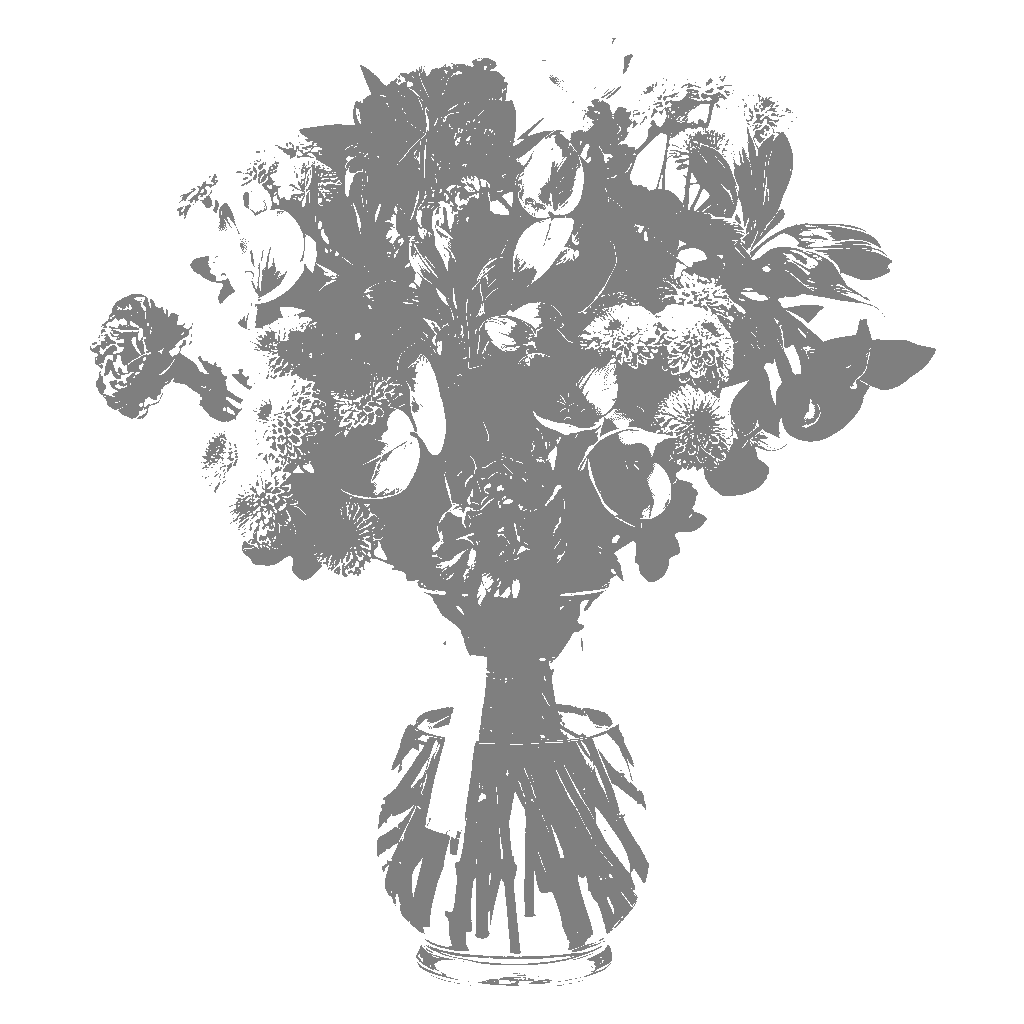
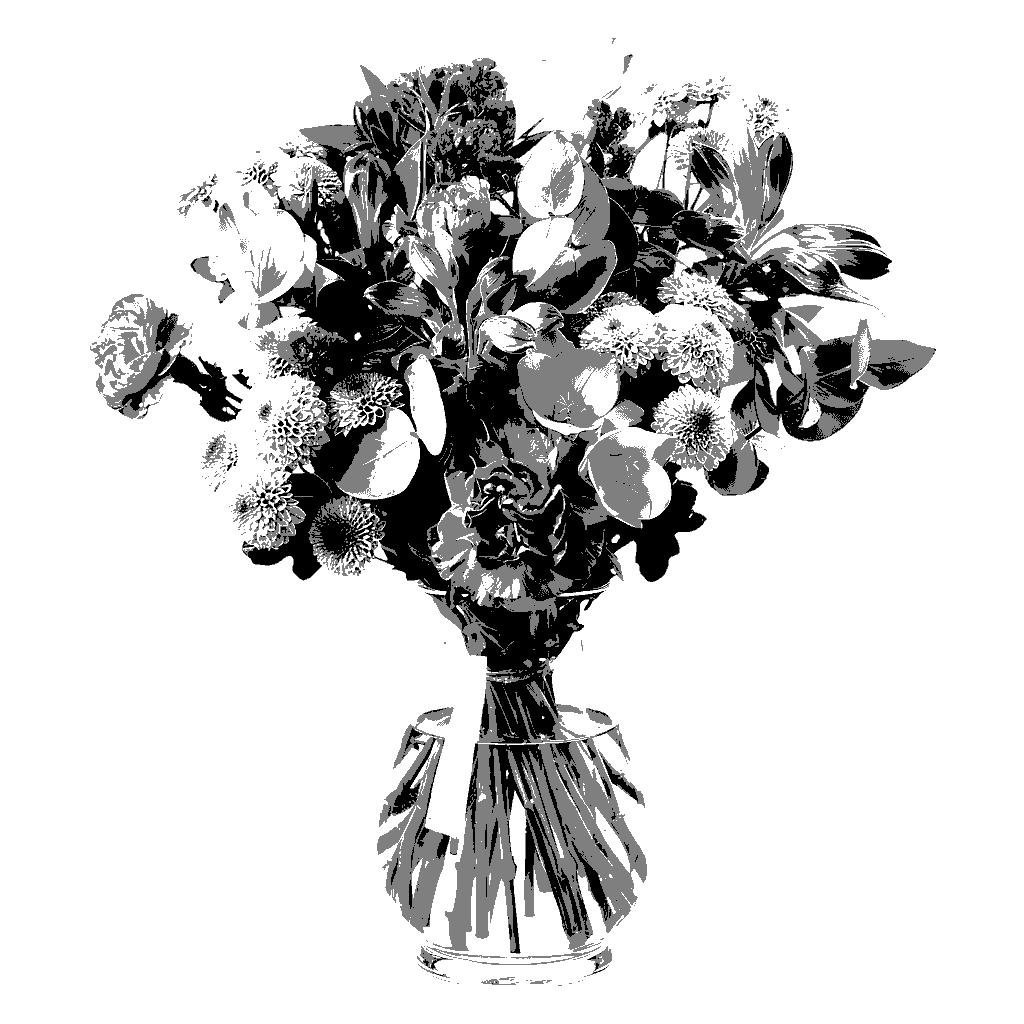
fixed iterative Otsu approach to better calculate the thresholds and get proper 3 values

diff --git a/histogram binarisation/otsu_iterative.py b/histogram binarisation/otsu_iterative.py
@@ -3,68 +3,59 @@ import numpy as np
 
 img = cv2.imread("resources/kwiatki.png", cv2.IMREAD_GRAYSCALE)
 
-def otsu_threshold(hist):
-    # handle histogram of any length (e.g. when using slices)
-    n = hist.size
-    total = hist.sum()
-    sumB = 0.0
-    wB = 0.0
-    maximum = -1.0
-    sum1 = np.dot(np.arange(n), hist)
+def threshold_otsu(image):
+    hist, _ = np.histogram(image.flatten(), bins=256, range=[0,256])
+    total = image.size
+    current_max, threshold = 0, 0
+    sum_total, sum_foreground = 0, 0
+    weight_background, weight_foreground = 0, 0
 
-    threshold = 0
-    for t in range(n):
-        wB += hist[t]
-        if wB == 0:
+    for i in range(256):
+        sum_total += i * hist[i]
+
+    for i in range(256):
+        weight_background += hist[i]
+        if weight_background == 0:
             continue
-        wF = total - wB
-        if wF == 0:
+        weight_foreground = total - weight_background
+        if weight_foreground == 0:
             break
-        sumB += t * hist[t]
-        mB = sumB / wB
-        mF = (sum1 - sumB) / wF
-        between = wB * wF * (mB - mF) ** 2
-        if between > maximum:
-            maximum = between
-            threshold = t
+        sum_foreground += i * hist[i]
+        mean_background = sum_foreground / weight_background
+        mean_foreground = (sum_total - sum_foreground) / weight_foreground
+        between_class_variance = weight_background * weight_foreground * (mean_background - mean_foreground) ** 2
+        if between_class_variance > current_max:
+            current_max = between_class_variance
+            threshold = i
     return threshold
 
-def iterative_three_class_threshold(img, delta_limit=2, max_iters=256):
-    hist = cv2.calcHist([img],[0],None,[256],[0,256]).ravel()
-
-    # initial thresholds
-    T1_old, T2_old = 60, 180
-
-    it = 0
+def iterative_otsu(img, delta = 2):
+    T_prev = threshold_otsu(img)
     while True:
-        it += 1
-        # compute thresholds for each class using Otsu
-        T1_new = otsu_threshold(hist[:T1_old+1])
-        T2_new = otsu_threshold(hist[T1_old+1:]) + T1_old + 1
-
-        if abs(T1_new - T1_old) < delta_limit and abs(T2_new - T2_old) < delta_limit:
+        lower = img[img <= T_prev]
+        upper = img[img > T_prev]
+        if len(lower) == 0 or len(upper) == 0:
             break
-
-        if it >= max_iters:
-            # stop to avoid infinite loop
-            print(f"Warning: reached max_iters={max_iters}, returning current thresholds")
+        mu0, mu1 = np.mean(lower), np.mean(upper)
+        subset = img[(img > mu0) & (img <= mu1)]
+        if subset.size == 0:
             break
+        T_new = threshold_otsu(subset)
+        if abs(T_new - T_prev) < delta:
+            break
+        T_prev = T_new
+    return T_prev
 
-        T1_old, T2_old = T1_new, T2_new
+T_iterative = iterative_otsu(img)
 
-    return T1_new, T2_new
-
-T1, T2 = iterative_three_class_threshold(img)
-
-# trójklasowa segmentacja
-seg = np.zeros_like(img)
-seg[img > T1] = 127
-seg[img > T2] = 255
+result_iterative = np.zeros_like(img)
+result_iterative[img >= T_iterative] = 255
+result_iterative[(img < T_iterative) & (img >= T_iterative/2)] = 127
 
 # --- added: print thresholds and save outputs ---
-print(f"Computed thresholds: T1={T1}, T2={T2}")
-cv2.imwrite("output/segmented_kwiatki.png", seg)
+print(f"Computed threshold: T_iterative={T_iterative}")
+cv2.imwrite("output/segmented_kwiatki.png", result_iterative)
 
 # optional: save side-by-side comparison (grayscale + segmentation colored)
-cmp = np.hstack((img, seg))
+cmp = np.hstack((img, result_iterative))
 cv2.imwrite("output/comparison_segmented_kwiatki.png", cmp)
